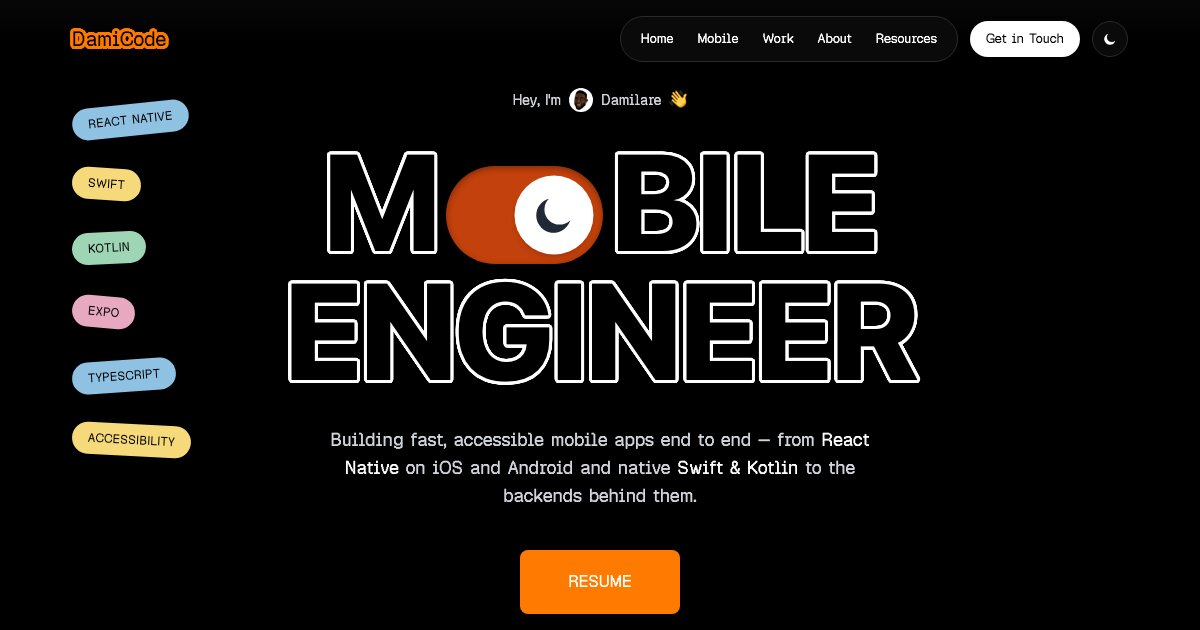
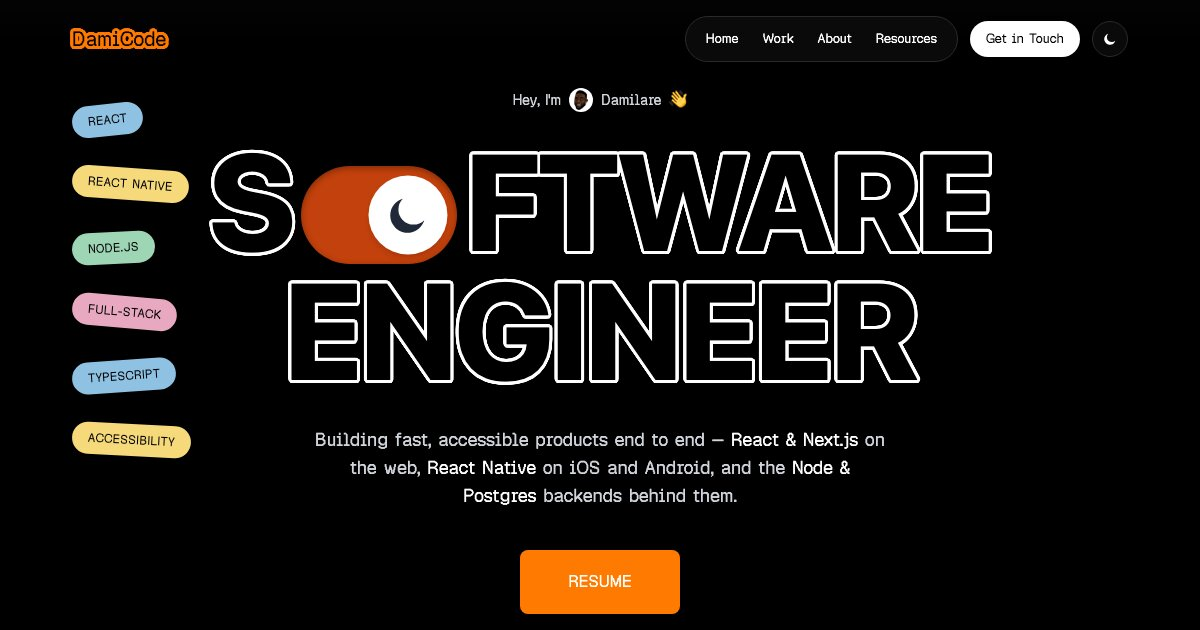
Present as a software engineer across web, mobile and backend
The headline returns to Software Engineer. The subline, tags, What I do
cards, About and SEO now cover React and Next.js on the web, React
Native on iOS and Android (with native Swift and Kotlin), and Node and
Postgres backends, instead of mobile alone. Share image recaptured.

diff --git a/components/sections/Hero.tsx b/components/sections/Hero.tsx
@@ -24,44 +24,44 @@ const floatingTags: {
   color: "yellow" | "blue" | "green" | "pink";
   tilt: number;
 }[] = [
-  { label: "React Native", color: "blue", tilt: -6 },
-  { label: "Swift", color: "yellow", tilt: 4 },
-  { label: "Kotlin", color: "green", tilt: -3 },
-  { label: "Expo", color: "pink", tilt: 5 },
+  { label: "React", color: "blue", tilt: -6 },
+  { label: "React Native", color: "yellow", tilt: 4 },
+  { label: "Node.js", color: "green", tilt: -3 },
+  { label: "Full-stack", color: "pink", tilt: 5 },
   { label: "TypeScript", color: "blue", tilt: -4 },
   { label: "Accessibility", color: "yellow", tilt: 3 },
 ];
 
 const capabilities = [
   {
-    title: "iOS & Android Apps",
+    title: "Full-stack Delivery",
     detail:
-      "React Native and Expo apps shipped to the App Store and Google Play, from first screen to store release.",
+      "Products taken from idea to production, end to end — web, mobile, API and database.",
   },
   {
-    title: "Native Modules",
+    title: "Frontend Engineering",
     detail:
-      "Swift and Kotlin where JavaScript stops: HealthKit, Android services, widgets and Live Activities.",
+      "React, Next.js, Vue and TypeScript interfaces built to scale and stay fast.",
   },
   {
-    title: "Offline & Background",
+    title: "Mobile Apps",
     detail:
-      "Background sync, location recording and offline queues that survive bad signal and app restarts.",
-  },
-  {
-    title: "Release Engineering",
-    detail:
-      "EAS builds, store submissions, over-the-air updates and crash reporting, wired into CI.",
+      "React Native apps on the App Store and Google Play, with native Swift and Kotlin where JavaScript stops.",
   },
   {
     title: "Backend & APIs",
     detail:
-      "Node and Nest.js services with Prisma and Postgres, built to serve the apps they power.",
+      "Node and Nest.js services with Prisma and Postgres, plus headless CMS integrations.",
   },
   {
-    title: "Web & Product",
+    title: "Release & Performance",
     detail:
-      "React and Next.js frontends, and close work with designers and founders to ship the right thing.",
+      "CI, store releases and over-the-air updates; lean bundles and smooth runtime, measured, not guessed.",
+  },
+  {
+    title: "Product Collaboration",
+    detail:
+      "Working closely with designers, founders and stakeholders to ship the right thing.",
   },
 ];
 
@@ -176,9 +176,9 @@ const Hero = () => {
 
           <h1 className="font-display bolder-text uppercase font-extrabold leading-[0.95] tracking-tight text-[clamp(2.75rem,12.5vw,8.5rem)]">
             <span className="hero-line hero-anim block whitespace-nowrap">
-              <span className="hero-word">M</span>
+              <span className="hero-word">S</span>
               <ThemeToggle />
-              <span className="hero-word">bile</span>
+              <span className="hero-word">ftware</span>
             </span>
             <span className="hero-line hero-anim block whitespace-nowrap">
               <span className="hero-word">Engineer</span>
@@ -187,12 +187,14 @@ const Hero = () => {
 
           <p className="hero-sub hero-anim mx-auto mt-8 max-w-xl text-sm font-bold text-muted md:text-lg">
             <span className="hero-sub-part">
-              Building fast, accessible mobile apps end to end — from
+              Building fast, accessible products end to end —
             </span>{" "}
+            <span className="hero-sub-part text-fg">React &amp; Next.js</span>{" "}
+            <span className="hero-sub-part">on the web,</span>{" "}
             <span className="hero-sub-part text-fg">React Native</span>{" "}
-            <span className="hero-sub-part">on iOS and Android and native</span>{" "}
-            <span className="hero-sub-part text-fg">Swift &amp; Kotlin</span>{" "}
-            <span className="hero-sub-part">to the backends behind them.</span>
+            <span className="hero-sub-part">on iOS and Android, and the</span>{" "}
+            <span className="hero-sub-part text-fg">Node &amp; Postgres</span>{" "}
+            <span className="hero-sub-part">backends behind them.</span>
           </p>
 
           <div className="hero-cta hero-anim mt-10 mb-8 flex justify-center">

diff --git a/components/sections/About.tsx b/components/sections/About.tsx
@@ -23,8 +23,8 @@ const traits: {
 
 const facts = [
   { label: "Experience", value: "7+ years" },
-  { label: "Focus", value: "Mobile engineering (iOS & Android)" },
-  { label: "Stack", value: "React Native · Expo · Swift · Kotlin · Node · Postgres" },
+  { label: "Focus", value: "Full-stack: web, mobile & backend" },
+  { label: "Stack", value: "React · Next.js · React Native · Node · Nest.js · Postgres" },
 ];
 
 const About = () => {
@@ -71,8 +71,8 @@ const About = () => {
             <p className="text-2xl font-extrabold leading-tight md:text-4xl">
               Software engineer with{" "}
               <span className="text-accent">7+ years</span> of experience,
-              now focused on mobile: React Native apps for iOS and Android,
-              down to the native code.
+              building across the stack: web, mobile and the backends
+              behind them.
             </p>
           </Reveal>
 
@@ -80,10 +80,11 @@ const About = () => {
             <Reveal delay={200}>
               <p>
                 I'm passionate about blending creativity with technical
-                expertise. I've shipped WakaBuddy to the App Store and Google
-                Play end to end, writing the Swift and Kotlin modules, widgets
-                and background work it needs, and I bring the same care to
-                the web: cross-platform, responsive and pixel-perfect.
+                expertise. I build polished web apps with React and Next.js,
+                and I've shipped WakaBuddy to the App Store and Google Play
+                end to end, from its Swift and Kotlin modules to its API.
+                Whatever the platform: responsive, accessible and
+                pixel-perfect.
               </p>
             </Reveal>
             <Reveal delay={280}>

diff --git a/components/Seo.tsx b/components/Seo.tsx
@@ -4,7 +4,7 @@ import React, { FC } from "react";
 const SITE_URL = "https://damicode.netlify.app";
 const SITE_NAME = "Damilare Adebayo";
 const DEFAULT_DESCRIPTION =
-  "Mobile engineer building React Native apps for iOS and Android, down to native Swift and Kotlin modules. 7+ years shipping fast, accessible products end to end.";
+  "Software engineer with 7+ years of experience building fast, accessible products end to end — React & Next.js on the web, React Native on iOS and Android, and Node & Postgres backends.";
 
 // `key`s let a page-level <Seo> override the one rendered in _app.
 const Seo: FC<{ title?: string; description?: string }> = ({

diff --git a/pages/index.tsx b/pages/index.tsx
@@ -8,7 +8,7 @@ import Contact from "../components/sections/Contact";
 const Home: NextPage = () => {
   return (
     <>
-      <Seo description="Damilare Adebayo — mobile engineer building React Native apps for iOS and Android, down to native Swift and Kotlin. 7+ years shipping products end to end." />
+      <Seo description="Damilare Adebayo — software engineer with 7+ years building fast, accessible products end to end: React and Next.js on the web, React Native on iOS and Android, and Node and Postgres backends." />
       <main>
         <Hero />
         <Work />
